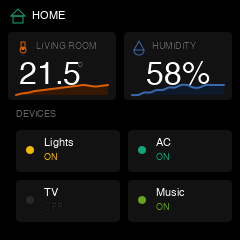
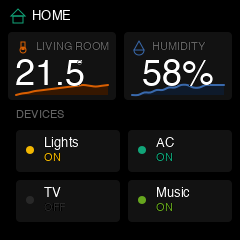
feat: increase minimum font size to 11px for better readability
- Bump all font sizes by 2px (tiny: 9→11, small: 11→13, etc.)
- Fix server stats layout: right-align CONN text
- Fix energy monitor layout: adjust cost/saved spacing
- Regenerate all sample images with larger fonts

🤖 Generated with [Claude Code](https://claude.com/claude-code)

diff --git a/scripts/generate_samples.py b/scripts/generate_samples.py
@@ -442,9 +442,9 @@ def generate_server_stats(renderer: Renderer, output_dir: Path) -> None:
         draw, "48 MB/s", (112, y_net), font=renderer.font_tiny, color=COLOR_WHITE, anchor="lm"
     )
 
-    # Connections
+    # Connections (right-aligned to fit)
     renderer.draw_text(
-        draw, "CONN: 1,247", (180, y_net), font=renderer.font_tiny, color=COLOR_GRAY, anchor="lm"
+        draw, "CONN: 1,247", (224, y_net), font=renderer.font_tiny, color=COLOR_GRAY, anchor="rm"
     )
 
     save_image(renderer, img, "04_server_stats", output_dir)
@@ -593,19 +593,19 @@ def generate_energy_monitor(renderer: Renderer, output_dir: Path) -> None:
             draw, value, (x, y + 14), font=renderer.font_small, color=color, anchor="lm"
         )
 
-    # Cost
+    # Cost (adjusted layout for larger fonts)
     renderer.draw_panel(draw, (8, 205, 232, 232), COLOR_PANEL, radius=4)
     renderer.draw_text(
-        draw, "TODAY COST", (16, 215), font=renderer.font_tiny, color=COLOR_GRAY, anchor="lm"
+        draw, "COST", (16, 218), font=renderer.font_tiny, color=COLOR_GRAY, anchor="lm"
     )
     renderer.draw_text(
-        draw, "$2.45", (100, 218), font=renderer.font_medium, color=COLOR_WHITE, anchor="lm"
+        draw, "$2.45", (55, 218), font=renderer.font_medium, color=COLOR_WHITE, anchor="lm"
     )
     renderer.draw_text(
-        draw, "SAVED", (155, 215), font=renderer.font_tiny, color=COLOR_GRAY, anchor="lm"
+        draw, "SAVED", (135, 218), font=renderer.font_tiny, color=COLOR_GRAY, anchor="lm"
     )
     renderer.draw_text(
-        draw, "$4.80", (190, 218), font=renderer.font_medium, color=COLOR_LIME, anchor="lm"
+        draw, "$4.80", (180, 218), font=renderer.font_medium, color=COLOR_LIME, anchor="lm"
     )
 
     save_image(renderer, img, "06_energy_monitor", output_dir)

diff --git a/custom_components/geekmagic/renderer.py b/custom_components/geekmagic/renderer.py
@@ -59,14 +59,14 @@ class Renderer:
         self.width = DISPLAY_WIDTH
         self.height = DISPLAY_HEIGHT
 
-        # Load fonts at different sizes
-        self.font_tiny = _load_font(9)
-        self.font_small = _load_font(11)
-        self.font_regular = _load_font(13)
-        self.font_medium = _load_font(16)
-        self.font_large = _load_font(22)
-        self.font_xlarge = _load_font(32)
-        self.font_huge = _load_font(48)
+        # Load fonts at different sizes (min 11px for readability on 240x240 display)
+        self.font_tiny = _load_font(11)
+        self.font_small = _load_font(13)
+        self.font_regular = _load_font(15)
+        self.font_medium = _load_font(18)
+        self.font_large = _load_font(24)
+        self.font_xlarge = _load_font(36)
+        self.font_huge = _load_font(52)
 
         # Cairo surface and context (created per render)
         self._surface: cairo.ImageSurface | None = None
